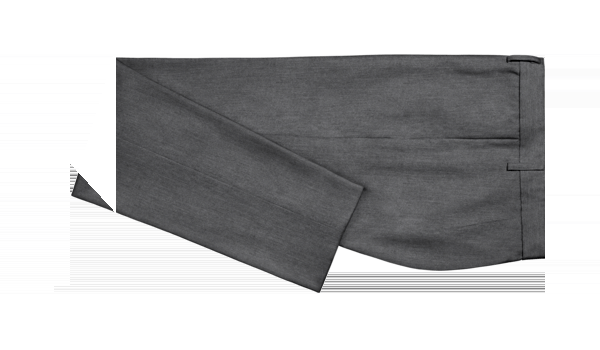
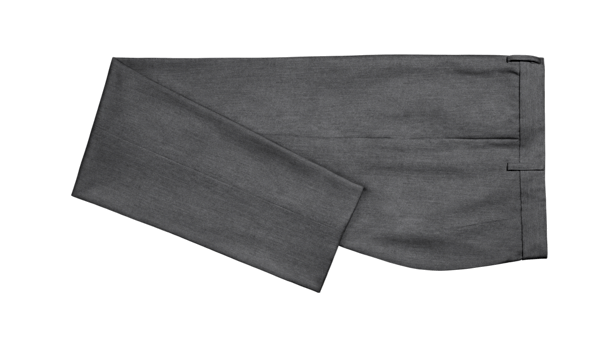
fix(custom-suits): unlock configurator and clean pants mask

Changed region(s): [[0.12, 0.1714, 0.21, 0.6], [0.54, 0.7714, 0.93, 0.8286], [0.9, 0.6, 0.93, 0.7429]]

diff --git a/app/custom-suits/page.tsx b/app/custom-suits/page.tsx
@@ -57,11 +57,6 @@ function CustomSuitsComingSoon() {
 }
 
 export default function CustomSuitsPage() {
-  const [showInternalConfigurator, setShowInternalConfigurator] = React.useState(false);
-  React.useEffect(() => {
-    setShowInternalConfigurator(new URLSearchParams(window.location.search).get("atelier") === "1");
-  }, []);
-  if (!showInternalConfigurator) return <CustomSuitsComingSoon />;
   return <CustomSuitsConfigurator />;
 }
 

diff --git a/app/custom-suits/components/SuitPreview.shared.ts b/app/custom-suits/components/SuitPreview.shared.ts
@@ -40,7 +40,7 @@ const ENABLE_PANTS_SYNTHETIC_STRIPES = false;
 const ENABLE_JACKET_LAPEL_ROTATION = true;
 const PARITY_DEBUG_OVERLAY = process.env.NEXT_PUBLIC_PARITY_DEBUG === "1";
 const VEST_FEATURE_ENABLED = process.env.NEXT_PUBLIC_VEST_FEATURE !== "0";
-const PANTS_MASK_VERSION = "v25";
+const PANTS_MASK_VERSION = "v26";
 const ZERO_OFFSET = { x: 0, y: 0 } as const;
 
 const toTextureProxyUrl = (src: string): string => {

diff --git a/app/custom-suits/components/SuitPreview.tsx b/app/custom-suits/components/SuitPreview.tsx
@@ -111,7 +111,7 @@ const FAST_PREVIEW = true;
 const ENABLE_PANTS_SYNTHETIC_STRIPES = false;
 const PARITY_DEBUG_OVERLAY = process.env.NEXT_PUBLIC_PARITY_DEBUG === "1";
 const VEST_FEATURE_ENABLED = process.env.NEXT_PUBLIC_VEST_FEATURE !== "0";
-const PANTS_MASK_VERSION = "v25";
+const PANTS_MASK_VERSION = "v26";
 const ZERO_OFFSET = { x: 0, y: 0 } as const;
 
 const FABRIC_AVG_CACHE = new Map<string, string | null>();

diff --git a/app/custom-suits/utils/assets.ts b/app/custom-suits/utils/assets.ts
@@ -15,7 +15,7 @@ const transparentBase = () => {
 const transparentVersion =
   (process.env.NEXT_PUBLIC_TRANSPARENT_VERSION &&
     process.env.NEXT_PUBLIC_TRANSPARENT_VERSION.trim()) ||
-  "ultra-2";
+  "ultra-3";
 
 const appendVersion = (url: string) => {
   if (!transparentVersion) return url;
